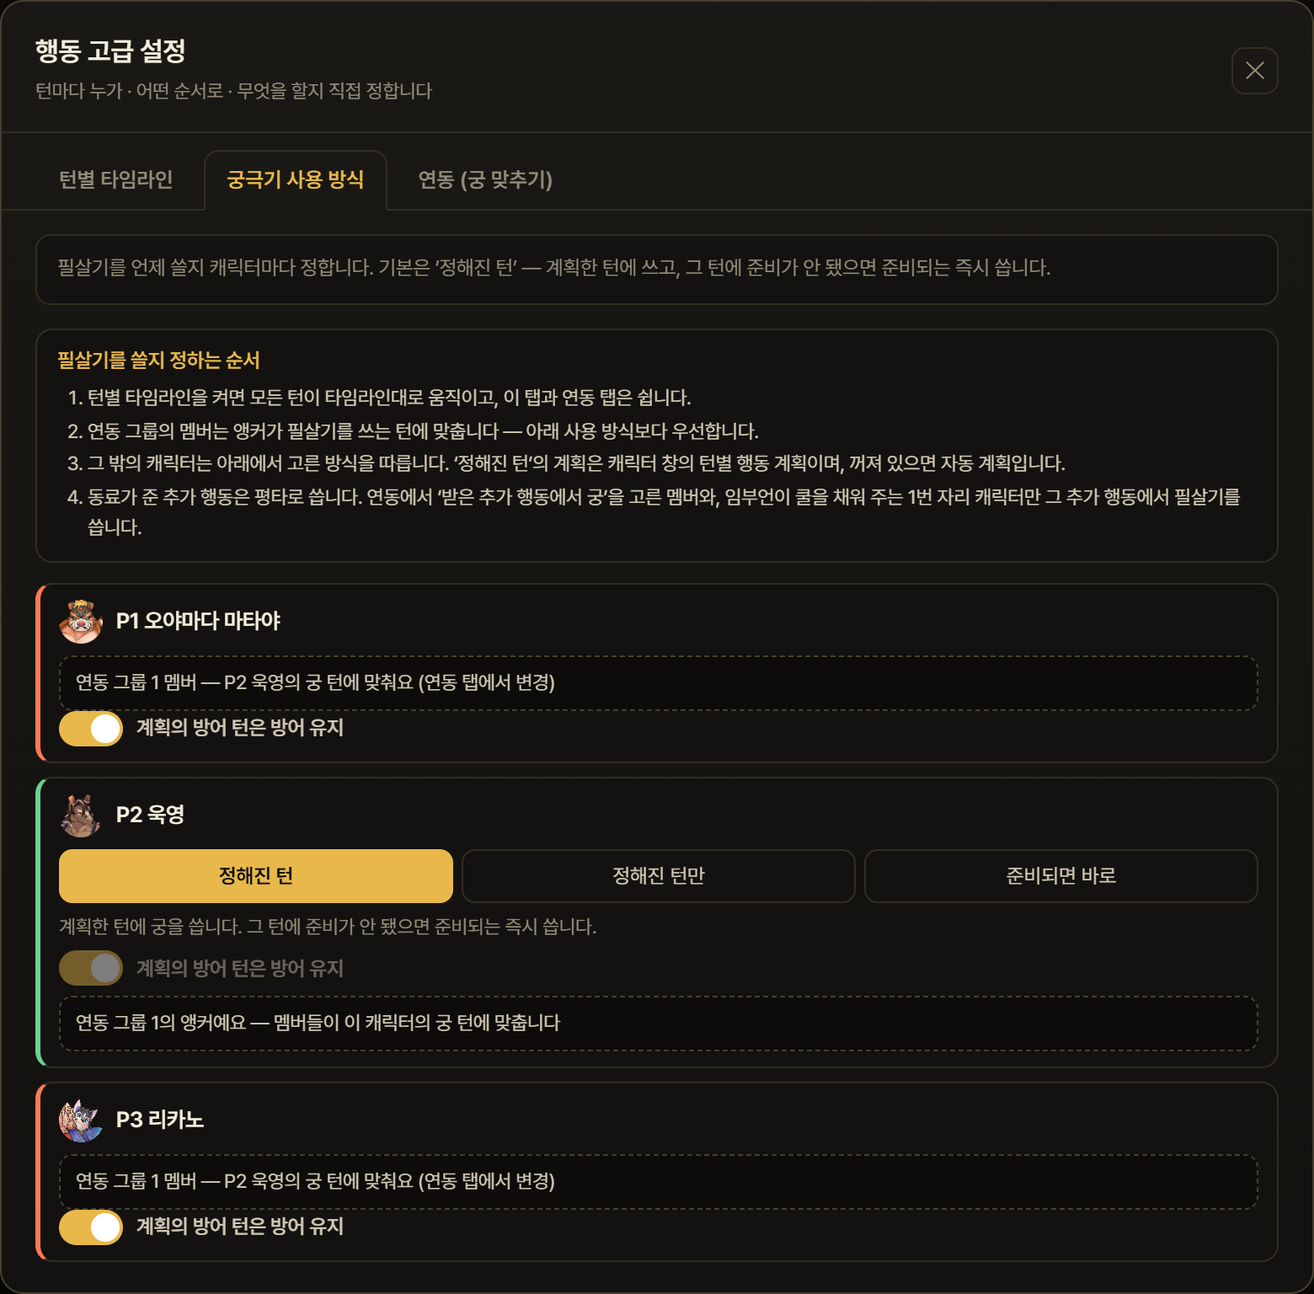
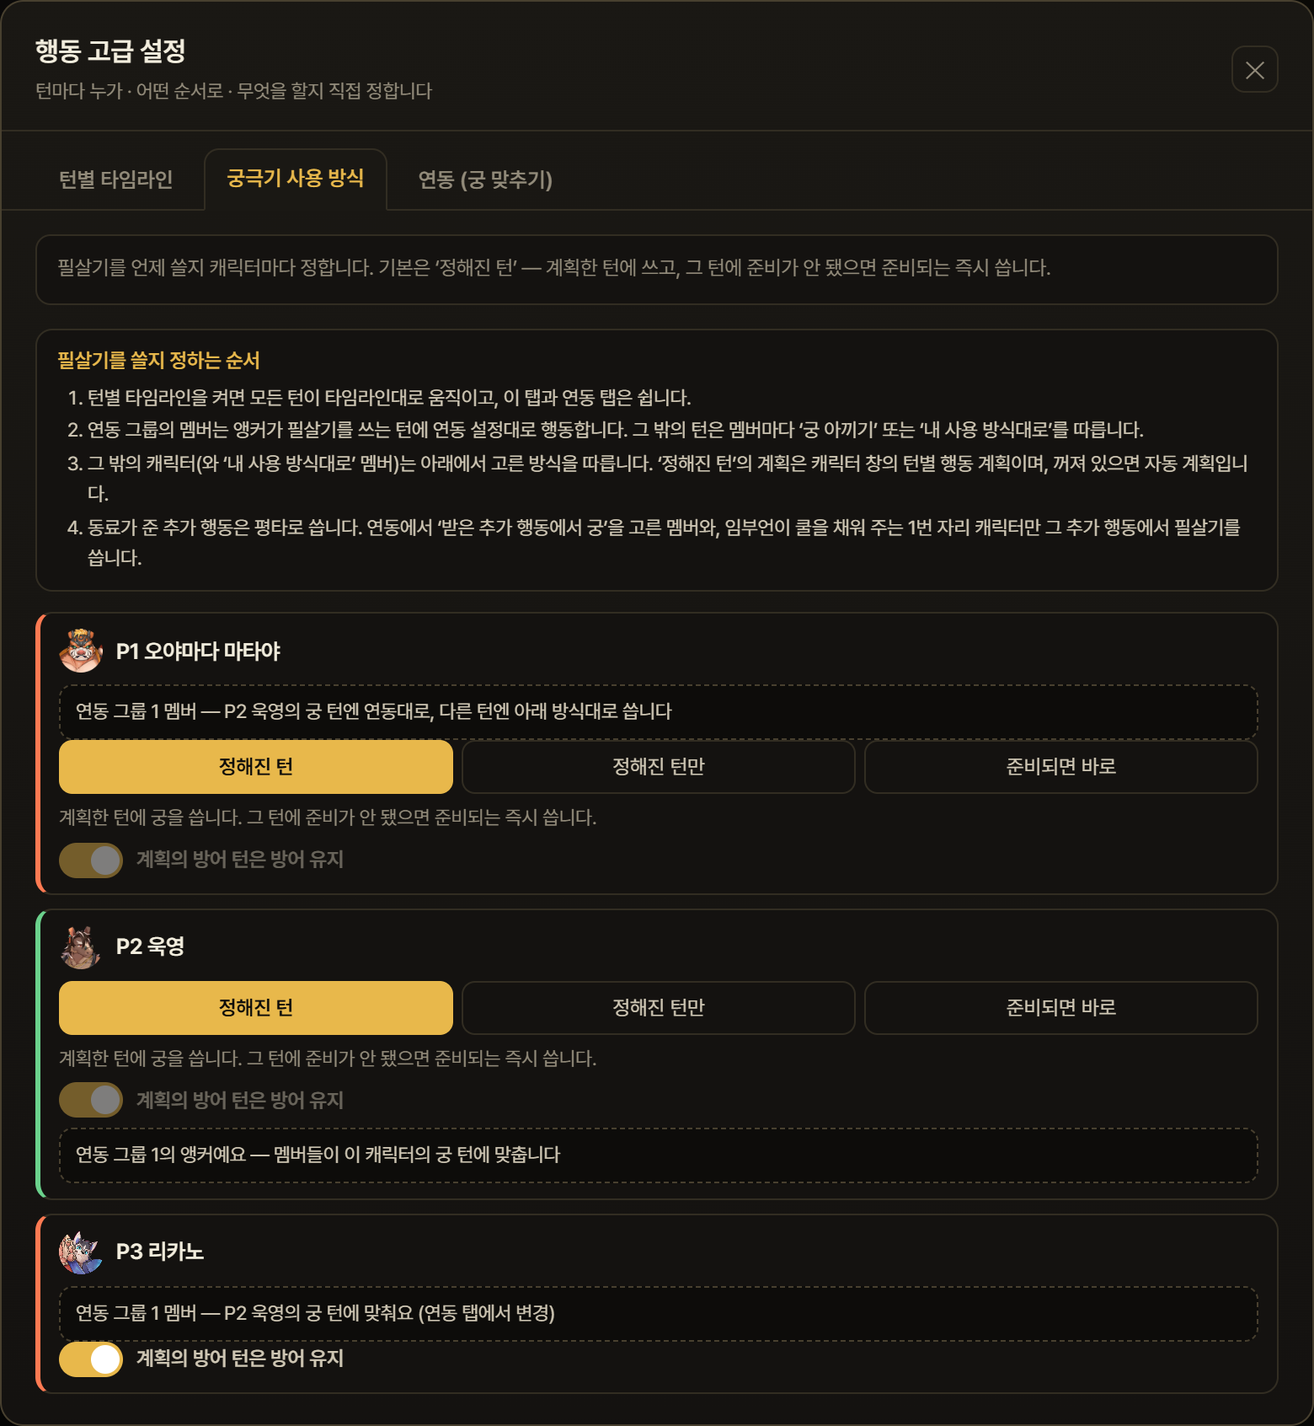
feat: 연동 멤버 '앵커가 궁을 안 쓰는 턴' 설정(궁 아끼기 / 내 사용 방식대로) (v1.8.4)
- 엔진: Unit.sync_own — 앵커가 이번 턴 궁을 안 쓰면 연동을 건너뛰고 자기 사용 방식(계획·asap 등)대로
  기본: '받은 추가 행동에서 궁' 멤버 = 내 방식대로, '같이 궁' 멤버 = 아끼기(기존 동작 유지)
- 피드백 사례: 1CD 마타야 + 욱영 연동(21bd) = 수동 13턴 타임라인과 턴별 행동 완전 일치(200회 2377만)
- 파서 other: hold|own, 멤버 5-튜플(구 2/4-튜플 호환), 공유 코드 멤버 꼬리 'x' = 기본과 반대
- UI: 연동 탭 멤버 행 선택 · 흐름 문장에 그 밖의 턴 · 사용 방식 탭에서 '내 방식대로' 멤버도 방식 선택 · 우선순위 설명 갱신
- 테스트: pytest 169 · 스냅샷 회귀 0 · uitest_sync 확장

diff --git a/dashboard/i18n.js b/dashboard/i18n.js
@@ -67,6 +67,16 @@
 
       /* EXACT — 노드 전체 일치 (정적 UI 전수). 부분치환 안 함 → 단어 훼손 없음. */
       EXACT: {
+        "앵커가 궁을 안 쓰는 턴에는 멤버마다":
+          "On turns the anchor doesn’t use its ultimate, each member chooses",
+        "궁 아끼기":
+          "Save the ultimate",
+        "또는":
+          "or",
+        "내 사용 방식대로":
+          "Use my own policy",
+        "를 고릅니다. ‘받은 추가 행동에서 궁’ 멤버는 기본이 내 사용 방식대로라, 평소엔 준비되는 대로 궁을 쓰다가 앵커 궁 턴에만 방어 → 추가 행동에서 궁으로 맞춥니다.":
+          ". Members set to ‘ultimate in the granted extra action’ default to their own policy, so they use the ultimate whenever it is ready and only on the anchor’s ultimate turn switch to defend → ultimate in the extra action.",
         "행동 우선순위 옆의 ‘행동 고급 설정’ 버튼을 누르면 열립니다. 탭이 세 개입니다 —":
           "Opens from the ‘Advanced Action Setup’ button next to Action Priority. It has three tabs —",
         "턴별 타임라인":
@@ -714,6 +724,16 @@
         [/^(\d[\d,]*)개 기록을 가져왔어요 \(중복 제외\)$/, function (_m, n) { return '已匯入 ' + n + ' 筆紀錄（已排除重複）'; }],
       ],
       EXACT: {
+        "앵커가 궁을 안 쓰는 턴에는 멤버마다":
+          "錨點不放必殺的回合，每位成員可選",
+        "궁 아끼기":
+          "保留必殺",
+        "또는":
+          "或",
+        "내 사용 방식대로":
+          "依自己的使用方式",
+        "를 고릅니다. ‘받은 추가 행동에서 궁’ 멤버는 기본이 내 사용 방식대로라, 평소엔 준비되는 대로 궁을 쓰다가 앵커 궁 턴에만 방어 → 추가 행동에서 궁으로 맞춥니다.":
+          "。「用獲得的追加行動放必殺」成員預設為依自己的使用方式，平時一就緒就放必殺，只在錨點必殺回合改為防禦 → 用追加行動放必殺。",
         "행동 우선순위 옆의 ‘행동 고급 설정’ 버튼을 누르면 열립니다. 탭이 세 개입니다 —":
           "按下行動優先度旁的「行動進階設定」按鈕即可開啟。共有三個分頁 —",
         "턴별 타임라인":
@@ -1512,6 +1532,16 @@
         [/^(\d[\d,]*)개 기록을 가져왔어요 \(중복 제외\)$/, function (_m, n) { return '已汇入 ' + n + ' 笔纪录（已排除重复）'; }],
       ],
       EXACT: {
+        "앵커가 궁을 안 쓰는 턴에는 멤버마다":
+          "锚点不放必杀的回合，每位成员可选",
+        "궁 아끼기":
+          "保留必杀",
+        "또는":
+          "或",
+        "내 사용 방식대로":
+          "依自己的使用方式",
+        "를 고릅니다. ‘받은 추가 행동에서 궁’ 멤버는 기본이 내 사용 방식대로라, 평소엔 준비되는 대로 궁을 쓰다가 앵커 궁 턴에만 방어 → 추가 행동에서 궁으로 맞춥니다.":
+          "。「用获得的追加行动放必杀」成员默认为依自己的使用方式，平时一就绪就放必杀，只在锚点必杀回合改为防御 → 用追加行动放必杀。",
         "행동 우선순위 옆의 ‘행동 고급 설정’ 버튼을 누르면 열립니다. 탭이 세 개입니다 —":
           "按下行动优先级旁的「行动进阶设置」按钮即可打开。共有三个分页 —",
         "턴별 타임라인":
@@ -2310,6 +2340,16 @@
         [/^(\d[\d,]*)개 기록을 가져왔어요 \(중복 제외\)$/, function (_m, n) { return n + '件の記録を取り込みました（重複除外）'; }],
       ],
       EXACT: {
+        "앵커가 궁을 안 쓰는 턴에는 멤버마다":
+          "アンカーが必殺を使わないターンは、メンバーごとに",
+        "궁 아끼기":
+          "必殺を温存",
+        "또는":
+          "または",
+        "내 사용 방식대로":
+          "自分の使い方で",
+        "를 고릅니다. ‘받은 추가 행동에서 궁’ 멤버는 기본이 내 사용 방식대로라, 평소엔 준비되는 대로 궁을 쓰다가 앵커 궁 턴에만 방어 → 추가 행동에서 궁으로 맞춥니다.":
+          "を選びます。「もらった追加行動で必殺」のメンバーは既定が「自分の使い方で」なので、普段は準備でき次第必殺を使い、アンカーの必殺ターンだけ防御 → 追加行動で必殺に合わせます。",
         "행동 우선순위 옆의 ‘행동 고급 설정’ 버튼을 누르면 열립니다. 탭이 세 개입니다 —":
           "行動優先度の横にある「行動詳細設定」ボタンで開きます。タブは3つです —",
         "턴별 타임라인":

diff --git a/tools/uitest_sync.js b/tools/uitest_sync.js
@@ -195,6 +195,19 @@ async function main() {
       if (!(i1 >= 0 && i2 > i1 && i3 > i2)) bad(`흐름 문장 순서 이상: ${t}`);
       else ok(`흐름 문장: ${t.replace(/\s+/g, ' ').trim()}`);
     }
+    // 앵커가 궁을 안 쓰는 턴: 보류 멤버 기본 = 내 사용 방식대로
+    const own = $('.adv-pane-sync .sm-row [data-sother="own"]', c);
+    if (!own || !own.classList.contains('on')) bad("보류 멤버의 '앵커가 궁을 안 쓰는 턴' 기본은 '내 사용 방식대로'여야 함");
+    click($('.adv-pane-sync .sm-row [data-sother="hold"]', c)); await sleep(200);
+    if (app.syncGroups[0].members[0].other !== 'hold') bad('궁 아끼기 선택 반영 실패');
+    { const bk = app.unpackSnapV2(JSON.parse(JSON.stringify(app.packSnapV2(app.snapshot()))));
+      if (!bk.sync || bk.sync[0].members[0].other !== 'hold') bad(`'궁 아끼기' 공유 코드 왕복 실패: ${JSON.stringify(bk.sync)}`); }
+    c = $('.adv-card');
+    click($('.adv-pane-sync .sm-row [data-sother="own"]', c)); await sleep(200);
+    if ('other' in app.syncGroups[0].members[0]) bad('기본값(내 사용 방식대로)으로 되돌리면 other 키가 없어야 함');
+    else ok("앵커가 궁을 안 쓰는 턴: 내 사용 방식대로(기본) ⇄ 궁 아끼기 · 공유 코드 왕복");
+    c = $('.adv-card');
+    if (!/그 밖의 턴/.test($('.adv-pane-sync .sg-flow', c).textContent)) bad('흐름 문장에 그 밖의 턴 처리가 없음');
     click($('.adv-pane-sync .as-group[data-g="0"] [data-miss="asap"]', c)); await sleep(200);
     if (app.syncGroups[0].miss !== 'asap') bad('미준비 처리 전환 실패');
     else ok('미준비 처리: 준비되면 바로');

diff --git a/dashboard/index.html b/dashboard/index.html
@@ -335,6 +335,7 @@
       <ul>
         <li><b>같이 궁</b> — 앵커 바로 앞 또는 뒤에서 함께 궁을 씁니다.</li>
         <li><b>방어 → 받은 추가 행동에서 궁</b> / <b>평타 → 받은 추가 행동에서 궁</b> — 앵커 궁 턴에는 방어(또는 평타)를 하고, 앵커의 필살기가 만들어 준 추가 행동에서 궁을 씁니다. 예: 마타야가 방어 → 욱영 궁 → 마타야가 추가 행동으로 궁. 추가 행동은 이미 행동을 마친 아군에게만 들어가므로 이 멤버는 자동으로 앵커 앞에서 행동합니다.</li>
+        <li>앵커가 궁을 안 쓰는 턴에는 멤버마다 <b>궁 아끼기</b> 또는 <b>내 사용 방식대로</b>를 고릅니다. ‘받은 추가 행동에서 궁’ 멤버는 기본이 내 사용 방식대로라, 평소엔 준비되는 대로 궁을 쓰다가 앵커 궁 턴에만 방어 → 추가 행동에서 궁으로 맞춥니다.</li>
         <li>욱영이 편성에 있으면 <b>연동 자동 설정</b> 버튼이 인접 아군을 한 번에 묶어 줍니다.</li>
       </ul>
       <p class="g-note">타임라인이 켜져 있으면 타임라인이 우선이라 이 두 탭은 쉽니다. 타임라인 탭에는 ‘특정 턴만 다르게’ · ‘캐릭터별 턴 계획’이 남아 있을 때 지금 적용되지 않는다는 안내가 뜨고, ‘기존 설정 불러오기’로 타임라인에 옮길 수 있습니다.</p>

diff --git a/dashboard/style.css b/dashboard/style.css
@@ -1438,7 +1438,7 @@ input[type=range]::-webkit-slider-thumb{-webkit-appearance:none;width:15px;heigh
 .sm-opt .as-lbl{padding-top:5px}
 .sm-opt .seg{flex:1;flex-wrap:wrap}
 .sm-base button{font-size:11.5px;padding:5px 6px;line-height:1.3;min-width:0;white-space:normal}
-.sm-ord button{padding:5px 8px;font-size:11.5px}
+.sm-ord button,.sm-other button{padding:5px 8px;font-size:11.5px}
 .sm-fixed{flex:1;font-size:11px;color:var(--muted);line-height:1.45;padding-top:4px}
 .sm-note{font-size:11px;color:var(--gold);line-height:1.45;margin-top:6px}
 .sg-flow{font-size:11.5px;color:var(--text2);line-height:1.6;background:var(--bg);border:1px dashed var(--line2);border-radius:8px;padding:7px 9px;margin-top:9px}

diff --git a/tests/test_altar.py b/tests/test_altar.py
@@ -258,8 +258,8 @@ def test_parse_sync_groups_rules():
     ]
     got = parse_sync_groups(raw, pos)
     assert got == [
-        {"anchor": 1, "members": [(2, "before", "fatal", False), (3, "after", "fatal", False)], "miss": "asap"},
-        {"anchor": 4, "members": [(5, "before", "fatal", False)], "miss": "wait"},
+        {"anchor": 1, "members": [(2, "before", "fatal", False, False), (3, "after", "fatal", False, False)], "miss": "asap"},
+        {"anchor": 4, "members": [(5, "before", "fatal", False, False)], "miss": "wait"},
     ]
     assert parse_sync_groups("x", pos) == []
     assert parse_sync_groups([{"anchor": 1, "members": []}], pos) == []
@@ -271,9 +271,12 @@ def test_parse_sync_groups_base_and_bonus():
     raw = [{"anchor": 2, "members": [{"p": 1, "order": "after", "base": "defend"},
                                      {"p": 3, "order": "after", "base": "basic"}]}]
     assert parse_sync_groups(raw, pos) == [
-        {"anchor": 2, "members": [(1, "before", "defend", True), (3, "before", "basic", True)], "miss": "wait"}]
+        {"anchor": 2, "members": [(1, "before", "defend", True, True), (3, "before", "basic", True, True)], "miss": "wait"}]
     # 알 수 없는 base 는 기본(fatal · 같이 궁)
-    assert parse_sync_groups([{"anchor": 2, "members": [{"p": 1, "base": "??", "order": "after"}]}], pos)         == [{"anchor": 2, "members": [(1, "after", "fatal", False)], "miss": "wait"}]
+    assert parse_sync_groups([{"anchor": 2, "members": [{"p": 1, "base": "??", "order": "after"}]}], pos)         == [{"anchor": 2, "members": [(1, "after", "fatal", False, False)], "miss": "wait"}]
+    # other: 앵커가 궁을 안 쓰는 턴의 처리(hold=아낌 / own=내 방식대로). 미지정 기본 = 보류 멤버 own, 같이 궁 hold
+    assert parse_sync_groups([{"anchor": 2, "members": [{"p": 1, "base": "defend", "other": "hold"},
+                                                        {"p": 3, "other": "own"}]}], pos)         == [{"anchor": 2, "members": [(1, "before", "defend", True, False), (3, "before", "fatal", False, True)], "miss": "wait"}]
 
 
 UK, MATAYA, RICANO = 10439, 10442, 10428   # 욱영(인접 아군 행동 회복) · 마타야 · 리카노
@@ -314,7 +317,7 @@ def test_sync_basic_base_and_no_grant_falls_back_by_miss_policy():
     miss=wait 는 궁을 아끼고(대기), miss=asap 은 다음 준비된 행동에서 쓴다."""
     team = [CharSpec(RICANO, position=1), CharSpec(FIGHTER, position=2)]   # 전사 궁은 행동 회복 없음
     for miss, expect_after in (("wait", False), ("asap", True)):
-        groups = [{"anchor": 2, "members": [(1, "before", "basic", True)], "miss": miss}]
+        groups = [{"anchor": 2, "members": [(1, "before", "basic", True, False)], "miss": miss}]   # 다른 턴=아낌
         res = run_team(team, altar=None, sync_groups=groups, n_dummies=1, max_turn=8,
                        enemy_hits=0, force_proc=True, seed=0)
         ults = _ult_turns(res, RICANO)
@@ -420,3 +423,25 @@ def test_probe_altar_procs_off_uses_guaranteed_cd():
     assert ult_turns_full == list(range(3, 9))
     # 프로브: 확률 CD감소는 보장이 아니므로 제외 → 보장 CD(4)만 반영해 5턴에 한 번(8턴 이내)
     assert ult_turns_probe == [5]
+
+
+def test_sync_own_uses_own_plan_on_other_turns():
+    """피드백(2026-09-24): 1CD 마타야 = '궁 있으면 바로' + 욱영 궁 턴에만 방어 → 욱영 추가 행동 → 궁.
+    연동 멤버(방어→추가 행동 궁)는 앵커가 궁을 안 쓰는 턴에 자기 계획(여기선 매 턴 궁)을 따라야 한다.
+    (종전엔 그 턴을 평타로 막아 2125만 < 수동 타임라인 2376만.)"""
+    team = [CharSpec(MATAYA, position=1, rotation="방" + "궁" * 12), CharSpec(UK, position=2), CharSpec(RICANO, position=3)]
+    own = run_team(team, altar=None, sync_groups=[{"anchor": 2, "members": [(1, "before", "defend", True)], "miss": "wait"}],
+                   n_dummies=1, max_turn=8, enemy_hits=0, force_proc=True, seed=0)
+    hold = run_team(team, altar=None, sync_groups=[{"anchor": 2, "members": [(1, "before", "defend", True, False)], "miss": "wait"}],
+                    n_dummies=1, max_turn=8, enemy_hits=0, force_proc=True, seed=0)
+    names = {u._kit.char_id: u.name for u in own.state.allies}
+    per_turn = lambda res, t: [k for n, k in _turn_seq(res, t) if n == names[MATAYA]]
+    assert per_turn(own, 4) == ["방어", "필살기"] and per_turn(own, 7) == ["방어", "필살기"]
+    assert all(per_turn(own, t) == ["필살기"] for t in (2, 3, 5, 6, 8))        # 다른 턴 = 계획대로 궁
+    assert all(per_turn(hold, t) == ["보통공격"] for t in (2, 3, 5, 6, 8))       # hold = 종전(아낌)
+    assert own.total_damage > hold.total_damage
+    # 계획 없이 '준비되면 바로'(asap)도 같은 흐름
+    asap = run_team([CharSpec(MATAYA, position=1, ult_mode="asap"), CharSpec(UK, position=2), CharSpec(RICANO, position=3)],
+                    altar=None, sync_groups=[{"anchor": 2, "members": [(1, "before", "defend", True)], "miss": "wait"}],
+                    n_dummies=1, max_turn=8, enemy_hits=0, force_proc=True, seed=0)
+    assert per_turn(asap, 4) == ["방어", "필살기"] and per_turn(asap, 5) == ["필살기"]

diff --git a/woofia_sim/engine.py b/woofia_sim/engine.py
@@ -248,6 +248,7 @@ class Unit:
     sync_base: str = "fatal"          # 앵커 궁 턴의 내 기본 행동: fatal=같이 궁(종전) / defend / basic (궁 보류)
     sync_bonus_ult: bool = False      # 앵커가 궁으로 준 추가 행동에서 궁(준비돼 있으면). 부여는 '이미 행동한' 아군에게만
                                       # 들어가므로 앵커보다 먼저 행동(sync_order=before)해야 한다 — 파서가 강제
+    sync_own: bool = False            # 앵커가 궁을 안 쓰는 턴엔 내 사용 방식(계획·asap 등)대로. False=그 턴엔 궁을 아낌(종전)
     died: bool = False                # 전투불능(HP 0) 이력 — 사망 로그 1회 표시·부활 대상 판별용
 
     @property
@@ -1723,17 +1724,19 @@ def _sync_anchor_ulted(unit: Unit, state: BattleState) -> bool:
     return getattr(anchor._kit, "char_id", 0) in state.turn_exes   # type: ignore[attr-defined]
 
 
-def _sync_member(m) -> tuple[int, str, str, bool]:
-    """sync_groups 멤버 항목 정규화 — (slot, order) 2-튜플(구 계약)과 (slot, order, base, bonus) 4-튜플 모두 허용.
-    base ∉ {fatal, defend, basic} 이면 fatal, bonus 는 bool 로. bonus 면 order 는 before 로 강제(부여 규칙)."""
+def _sync_member(m) -> tuple[int, str, str, bool, bool]:
+    """sync_groups 멤버 항목 정규화 — (slot, order) 2-튜플(구 계약) · (slot, order, base, bonus) 4-튜플 ·
+    (…, own) 5-튜플 모두 허용. base ∉ {fatal, defend, basic} 이면 fatal, bonus 는 bool 로. bonus 면 order 는 before
+    로 강제(부여 규칙). own 미지정이면 base 가 보류(defend/basic)일 때 True(다른 턴은 내 방식대로), fatal 이면 False."""
     seq = list(m) if isinstance(m, (list, tuple)) else [m]
     slot = int(seq[0]) if seq and seq[0] is not None else -1
     order = "after" if len(seq) > 1 and seq[1] == "after" else "before"
     base = seq[2] if len(seq) > 2 and seq[2] in ("fatal", "defend", "basic") else "fatal"
     bonus = bool(seq[3]) if len(seq) > 3 else False
+    own = bool(seq[4]) if len(seq) > 4 else base != "fatal"
     if bonus:
         order = "before"
-    return slot, order, base, bonus
+    return slot, order, base, bonus, own
 
 
 def _next_token(unit: Unit) -> str | None:
@@ -2027,11 +2030,15 @@ def _take_action(unit: Unit, state: BattleState, forced_token: str | None = None
     policy_fatal: bool | None = None
     orig_token = token                 # 정책이 토큰을 바꾸기 전 값 — 욱영 보류(defer_uk)의 로테이션 되감기 판정용
     natural = forced_token is None and not forced_basic and not is_bonus and not unit.is_fed_carry
-    if natural and bool(kit_fatal.effects) and (unit.sync_anchor is not None or unit.ult_mode != "fixed"):
+    # 연동 적용 여부: sync_own 멤버는 앵커가 이번 턴 궁을 안 쓰면 연동을 적용하지 않고 자기 사용 방식(아래 asap/strict,
+    # fixed 면 계획 그대로)으로 간다 — "궁 있으면 바로 쓰다가 앵커 궁 턴에만 방어 → 받은 추가 행동에서 궁".
+    sync_on = unit.sync_anchor is not None and not (
+        unit.sync_own and not _anchor_will_ult(unit.sync_anchor, state))
+    if natural and bool(kit_fatal.effects) and (sync_on or unit.ult_mode != "fixed"):
         ready = unit.cd_remaining <= 0
         holding = any(unit.stacks.get(s, 0) > 0 for s in unit.hold_fatal_stacks)
         slot_ok = token != "defend" or not unit.ult_keep_def     # 방어 지정 턴은 기본적으로 지킨다
-        if unit.sync_anchor is not None:
+        if sync_on:
             anchor_ults = _anchor_will_ult(unit.sync_anchor, state)
             if anchor_ults and unit.sync_base != "fatal":
                 # 연동 옵션: 앵커 궁 턴엔 내 기본 행동을 방어/평타로 두고 궁은 보류한다(궁은 앵커가 준
@@ -2569,13 +2576,13 @@ def simulate(kits: list[ResolvedKit], n_dummies: int = 1, max_turn: int = 30,
             continue
         miss = "asap" if g.get("miss") == "asap" else "wait"
         for entry in g.get("members", []):
-            slot, order, base, bonus = _sync_member(entry)
+            slot, order, base, bonus, own = _sync_member(entry)
             m = by_slot.get(slot)
             if m is None or m is anchor:
                 continue
             m.sync_anchor, m.sync_miss = anchor, miss
             m.sync_order = order
-            m.sync_base, m.sync_bonus_ult = base, bonus
+            m.sync_base, m.sync_bonus_ult, m.sync_own = base, bonus, own
     enemies = [make_dummy(i) for i in range(max(1, min(n_dummies, 5)))]
     for e in enemies:
         e.element = dummy_element        # 더미 속성 → 공격자 속성과 상성 판정

diff --git a/woofia_sim/altar.py b/woofia_sim/altar.py
@@ -190,6 +190,7 @@ def parse_ult_policy(raw: object) -> dict:
 
 
 SYNC_BASES = ("fatal", "defend", "basic")
+SYNC_OTHERS = ("hold", "own")   # 앵커가 궁을 안 쓰는 턴: hold=궁 아낌 / own=내 사용 방식대로
 
 
 def parse_sync_groups(raw: object, positions: list[int]) -> list[dict]:
@@ -197,7 +198,9 @@ def parse_sync_groups(raw: object, positions: list[int]) -> list[dict]:
 
     입력: [{"anchor": p, "members": [{"p": p, "order": "before"|"after", "base": "fatal"|"defend"|"basic"}, ...],
             "miss": "wait"|"asap"}]
-    출력 멤버: (p, order, base, bonus) — base 는 앵커 궁 턴의 멤버 기본 행동(기본 fatal=같이 궁). base 가 defend/basic
+    other(선택): "hold"|"own" — 앵커가 궁을 안 쓰는 턴에 궁을 아낄지(hold) 내 사용 방식대로 쓸지(own).
+    미지정이면 base 가 보류(defend/basic)일 때 own, fatal 이면 hold.
+    출력 멤버: (p, order, base, bonus, own) — base 는 앵커 궁 턴의 멤버 기본 행동(기본 fatal=같이 궁). base 가 defend/basic
     이면 궁을 보류하고 **앵커가 준 추가 행동에서 궁**(bonus=True). 추가 행동은 이미 행동한 아군에게만 들어가므로
     그 경우 order 는 before 로 강제한다.
     규칙: 최대 3그룹 · 앵커/멤버는 출전 포지션이어야 함 · 한 포지션은 그룹 전체에서 한 역할만
@@ -217,7 +220,7 @@ def parse_sync_groups(raw: object, positions: list[int]) -> list[dict]:
             continue
         if anchor not in present or anchor in used:
             continue
-        members: list[tuple[int, str, str, bool]] = []
+        members: list[tuple[int, str, str, bool, bool]] = []
         for m in (g.get("members") or []):
             try:
                 p = int(m.get("p") if isinstance(m, dict) else m)
@@ -229,7 +232,9 @@ def parse_sync_groups(raw: object, positions: list[int]) -> list[dict]:
             base = (m.get("base") if isinstance(m, dict) else None)
             base = base if base in SYNC_BASES else "fatal"
             bonus = base != "fatal"
-            members.append((p, "before" if bonus or order != "after" else "after", base, bonus))
+            other = (m.get("other") if isinstance(m, dict) else None)
+            own = (other == "own") if other in SYNC_OTHERS else bonus   # 기본: 보류 멤버=내 방식대로, 같이 궁=아낌
+            members.append((p, "before" if bonus or order != "after" else "after", base, bonus, own))
         if not members:
             continue
         used.add(anchor)
